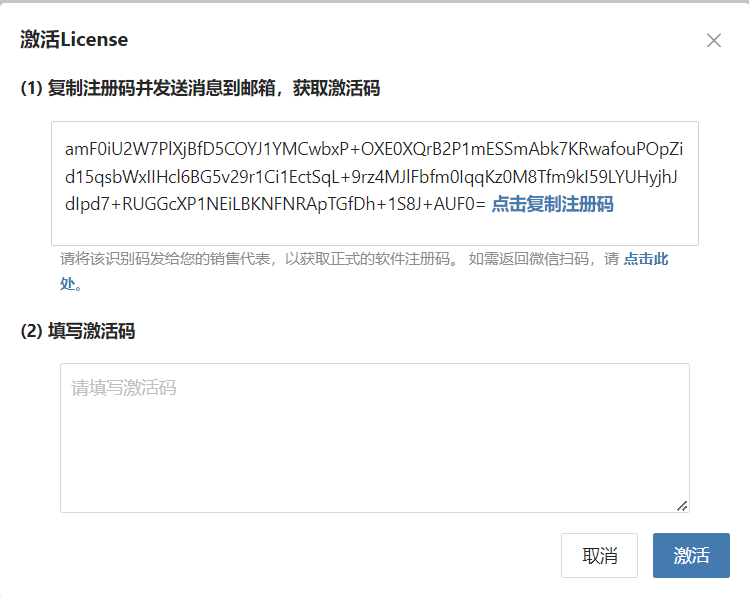
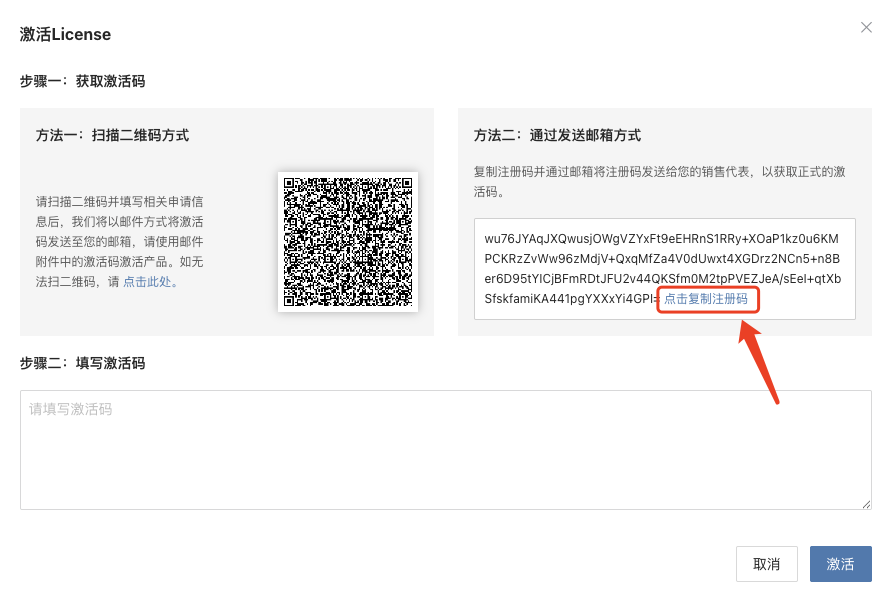
Refactor HyperBDR installation guide by removing outdated download instructions and updating license activation steps. Added new images for license activation process.

diff --git a/src/userguide/poc/hyperbdr-vmware-pre-settings.md b/src/userguide/poc/hyperbdr-vmware-pre-settings.md
@@ -2,128 +2,6 @@
 
 [[toc]]
 
-## Download HyperBDR Installation Package
-
-### Installation Package Information
-
-#### Installation Package
-
-Access [https://install.oneprocloud.com/get_hyperbdr_latest](https://install.oneprocloud.com/get_hyperbdr_latest) through a browser to obtain the download package link.
-
-#### MD5 Checksum File
-
-Access [https://install.oneprocloud.com/get_hyperbdr_latest](https://install.oneprocloud.com/get_hyperbdr_latest) through a browser to obtain the download package link. Then, add the `.md5` suffix after obtaining the link to obtain the MD5 file.
-
-::: tip
-Log in to the HyperBDR host backend and execute the command.  
-:::
-
-### Download Installation Package and MD5 Checksum File
-
-#### Set url in Shell
-
-```sh
-# Retrieve the latest HyperBDR package URL
-HYPERBDR_PACKAGE=$(curl -s -k https://install.oneprocloud.com/get_hyperbdr_latest/latest)
-echo "HYPERBDR_PACKAGE: ${HYPERBDR_PACKAGE}"
-
-# Get the corresponding MD5 file URL
-HYPERBDR_PACKAGE_MD5="${HYPERBDR_PACKAGE}.md5"
-echo "HYPERBDR_PACKAGE_MD5: ${HYPERBDR_PACKAGE_MD5}"
-
-# Use string manipulation to extract the package name
-HYPERBDR_PACKAGE_NAME="${HYPERBDR_PACKAGE##*/}"
-echo "HYPERBDR_PACKAGE_NAME: ${HYPERBDR_PACKAGE_NAME}"
-
-# Extract the MD5 file name
-HYPERBDR_PACKAGE_MD5_NAME="${HYPERBDR_PACKAGE_NAME}.md5"
-echo "HYPERBDR_PACKAGE_MD5_NAME: ${HYPERBDR_PACKAGE_MD5_NAME}"
-```
-#### Download File
-
-```sh
-curl -k -O "$HYPERBDR_PACKAGE"
-curl -k -O "$HYPERBDR_PACKAGE_MD5"
-```
-
-### Installation Package Consistency Check
-
-- Step1: Generate the MD5 value for the downloaded installation package  
-
-```sh
-md5sum "$HYPERBDR_PACKAGE_NAME"
-```
-- Step2: Check the MD5 value recorded in the MD5 checksum file
-
-```sh
-cat "$HYPERBDR_PACKAGE_MD5_NAME"
-```
-
-- Step3: Compare MD5 Values
- 
-If the MD5 values obtained in `Step1` and `Step2` are the same, it indicates that the installation package is not corrupted. If the MD5 values are different, you can try re-downloading the file for comparison or contact us for assistance.
-
-## Install HyperBDR
-
-> After completing the download of the HyperBDR installation package, you can proceed to install it  
-> Already logged in to the Huawei Cloud HyperBDR ECS instance backend by default
-
-::: tip
-The operating system used for the installation must be Ubuntu 20.04 version.
-:::
-
-### Unzip the HyperBDR installation package
-
-- Execute the following command to unzip the installation package  
-
-```sh
-rm -rf /mnt/installer && tar -zxvf "$HYPERBDR_PACKAGE_NAME" -C /mnt/  
-```
-### Run the installation script
-
-#### Enable public access to the HyperBDR platform
-
-- Execute the command  
-
-```sh
-bash /mnt/installer/install.sh -i <HyperBDR EIP>
-```
-
-::: tip
-In Huawei Cloud, the Elastic IP (EIP) service enables your cloud resources to communicate with the Internet using static public IP addresses and outbound bandwidth services. After configuring an EIP for a resource, it gains direct access to the Internet. If a resource is configured only with a private IP, it cannot access the Internet directly. In another cloud platforms, it may be referred to by a different names, such as 'Public IP address' in Azure.
-:::
-
-#### Access the HyperBDR platform through an internal VPN
-
-- Execute the command  
-
-```sh
-bash /mnt/installer/install.sh
-```
-::: warning
-By default, the installation script uses the address of the first network interface card as the platform service address. 
-:::
-
-If the installation is successful, you will see the prompted login information.  
-
-```
-[2023-03-30 23:08:36] [INFO] --------------------------------------------------
-[2023-03-30 23:08:36] [INFO] Congratulations! The installation of HyperBDR is complete.
-[2023-03-30 23:08:36] [INFO]
-[2023-03-30 23:08:36] [INFO] DR        : https://192.168.12.81:10443
-[2023-03-30 23:08:36] [INFO] Migration : https://192.168.12.81:20443
-[2023-03-30 23:08:36] [INFO] Admin     : https://192.168.12.81:30443
-[2023-03-30 23:08:36] [INFO]
-[2023-03-30 23:08:36] [INFO] The default username and password : admin / P@ssw0rd
-[2023-03-30 23:08:36] [INFO]
-[2023-03-30 23:08:36] [INFO] If you have any questions or need assistance, please refer
-[2023-03-30 23:08:36] [INFO] to the user manual or contact our support team.
-[2023-03-30 23:08:36] [INFO]
-[2023-03-30 23:08:36] [INFO] Enjoy using our product!
-[2023-03-30 23:08:36] [INFO] --------------------------------------------------
-```
-Access HyperBDR Console   url: https://\<HyperBDR IP\>:10443
-
 ## Apply for HyperBDR License
 
 ::: tip
@@ -138,11 +16,15 @@ Go to [Settings]->[Licenses], then click the [+Add] button:
 
 There are two ways to activate a license: 
 
-#### I. Activate a license by using the QR code
+#### I. Activate a license by fill in the application form.
 
-![hyperbdr-license-activation-guide-2.png](./images/hyperbdr-license-activation-guide-2.png)  
+![hyperbdr-license-activation-guide-2.png](./images/hyperbdr-license-activation-guide-2.png)
 
-Scan the QR code and fill in the application form. OnePro Cloud customer service will email user the activation code after reviewing the application. 
+- Click the **"Authorization->"** button, will jump to application form.
+
+![hyperbdr-license-activation-guide-2.png](./images/hyperbdr-license-activation-guide-4.png)
+
+Fill in the application form. OnePro Cloud customer service will email user the activation code after reviewing the application. 
 
 Fill in the activation code and click the [Activate] button. 
 
@@ -159,7 +41,7 @@ Copy and email the registration code to OnePro Cloud and customer service will e
 Fill in the activation code and click the [Activate] button. 
 
 ::: tip
-User can send the registration code to OnePro Cloud sales representative or _[enquiry@oneprocloud.com](mailto:enquiry@oneprocloud.com)_._
+User can send the registration code to OnePro Cloud sales representative or [enquiry@oneprocloud.com](mailto:enquiry@oneprocloud.com).
 :::
 
 ## Verify Sync Proxy Registration in HyperBDR

diff --git a/src/zh/userguide/poc/hyperbdr-vmware-pre-settings.md b/src/zh/userguide/poc/hyperbdr-vmware-pre-settings.md
@@ -1,125 +1,6 @@
-# HyperBDR部署与配置
+# HyperBDR配置
 
 [[toc]]
-
-## 下载 HyperBDR 安装包
-
-### 安装包信息
-
-#### 安装包
- 
-通过浏览器访问[https://install.oneprocloud.com/get_hyperbdr_latest](https://install.oneprocloud.com/get_hyperbdr_latest)获取安装包下载链接 
-
-#### MD5校验文件
-
-通过浏览器访问[https://install.oneprocloud.com/get_hyperbdr_latest](https://install.oneprocloud.com/get_hyperbdr_latest)获取安装包下载链接，在链接后增加`.md5`后缀来访问获取 MD5 检验文件
-
-::: tip
-登录到HyperBDR主机后端并执行命令。  
-:::
-
-
-### 下载安装包和MD5校验文件
-
-#### 在Shell中设置URL
-
-```sh
-# 获取最新的 HyperBDR 软件包 URL
-HYPERBDR_PACKAGE=$(curl -s -k https://install.oneprocloud.com/get_hyperbdr_latest/latest)
-echo "HYPERBDR_PACKAGE: ${HYPERBDR_PACKAGE}"
-
-# 获取相应的 MD5 文件 URL
-HYPERBDR_PACKAGE_MD5="${HYPERBDR_PACKAGE}.md5"
-echo "HYPERBDR_PACKAGE_MD5: ${HYPERBDR_PACKAGE_MD5}"
-
-# 使用字符串操作提取包名称
-HYPERBDR_PACKAGE_NAME="${HYPERBDR_PACKAGE##*/}"
-echo "HYPERBDR_PACKAGE_NAME: ${HYPERBDR_PACKAGE_NAME}"
-
-# 提取 MD5 文件名
-HYPERBDR_PACKAGE_MD5_NAME="${HYPERBDR_PACKAGE_NAME}.md5"
-echo "HYPERBDR_PACKAGE_MD5_NAME: ${HYPERBDR_PACKAGE_MD5_NAME}"
-```
-#### 下载文件
-
-```sh
-curl -k -O "$HYPERBDR_PACKAGE"
-curl -k -O "$HYPERBDR_PACKAGE_MD5"
-```
-
-### 安装包一致性检查
-
-- 步骤1: 生成已下载安装包的MD5值  
-
-```sh
-md5sum "$HYPERBDR_PACKAGE_NAME"
-```
-- 步骤2: 检查MD5校验文件中记录的MD5值
-
-```sh
-cat "$HYPERBDR_PACKAGE_MD5_NAME"
-```
-
-- Step3: 比较MD5值 
- 
-如果步骤1和步骤2中获取的MD5值相同，则表示安装包未损坏。如果MD5值不同，您可以尝试重新下载文件进行比较，或者联系我们寻求帮助。
-
-## 安装 HyperBDR
-
-> 完成HyperBDR安装包的下载后，您可以继续进行安装。  
-> 默认已登录到华为云HyperBDR ECS实例的后端。
-
-::: tip
-安装所使用的操作系统必须是 Ubuntu 20.04 版本。
-:::
-
-### 解压HyperBDR安装包
-
-- 执行以下命令解压安装包  
-
-```sh
-rm -rf /mnt/installer && tar -zxvf "$HYPERBDR_PACKAGE_NAME" -C /mnt/ 
-```
-### 运行安装脚本
-
-#### 启用HyperBDR平台的公共访问
-
-- 执行命令 
-
-```sh
-bash /mnt/installer/install.sh -i <HyperBDR EIP>
-```
-
-#### 通过内部VPN访问HyperBDR平台
-
-- 执行命令  
-
-```sh
-bash /mnt/installer/install.sh
-```
-::: warning
-默认情况下，安装脚本使用第一个网络接口卡的地址作为平台服务地址。 
-:::
-
-如果安装成功，您将看到提示的登录信息。  
-
-```
-[2023-03-30 23:08:36] [INFO] --------------------------------------------------
-[2023-03-30 23:08:36] [INFO] Congratulations! The installation of HyperBDR is complete.
-[2023-03-30 23:08:36] [INFO]
-[2023-03-30 23:08:36] [INFO] DR        : https://192.168.12.81:10443
-[2023-03-30 23:08:36] [INFO] Migration : https://192.168.12.81:20443
-[2023-03-30 23:08:36] [INFO] Admin     : https://192.168.12.81:30443
-[2023-03-30 23:08:36] [INFO]
-[2023-03-30 23:08:36] [INFO] The default username and password : admin / P@ssw0rd
-[2023-03-30 23:08:36] [INFO]
-[2023-03-30 23:08:36] [INFO] If you have any questions or need assistance, please refer
-[2023-03-30 23:08:36] [INFO] to the user manual or contact our support team.
-[2023-03-30 23:08:36] [INFO]
-[2023-03-30 23:08:36] [INFO] Enjoy using our product!
-[2023-03-30 23:08:36] [INFO] --------------------------------------------------
-```
-访问HyperBDR控制台URL：https://\<HyperBDR IP\>:10443
 
 ## 申请HyperBDR授权
 
@@ -147,7 +28,7 @@ bash /mnt/installer/install.sh
 请确保申请表上提供的电子邮件地址是正确的，否则将无法收到激活码。  
 :::
 
-#### II. 通过使用激活码激活授权
+#### II. 通过使用注册码激活授权
 
 ![hyperbdr-license-activation-guide-3.png](./images/hyperbdr-license-activation-guide-3.png) 
 
@@ -156,7 +37,7 @@ bash /mnt/installer/install.sh
 填写激活码并点击[激活]按钮。
 
 ::: tip
-用户可以将注册码发送给OnePro Cloud销售代表或者 _[enquiry@oneprocloud.com](mailto:enquiry@oneprocloud.com)_._
+用户可以将注册码发送给OnePro Cloud销售代表或者 [enquiry@oneprocloud.com](mailto:enquiry@oneprocloud.com)邮箱来申请授权.
 :::
 
 ## 在HyperBDR中验证代理注册
